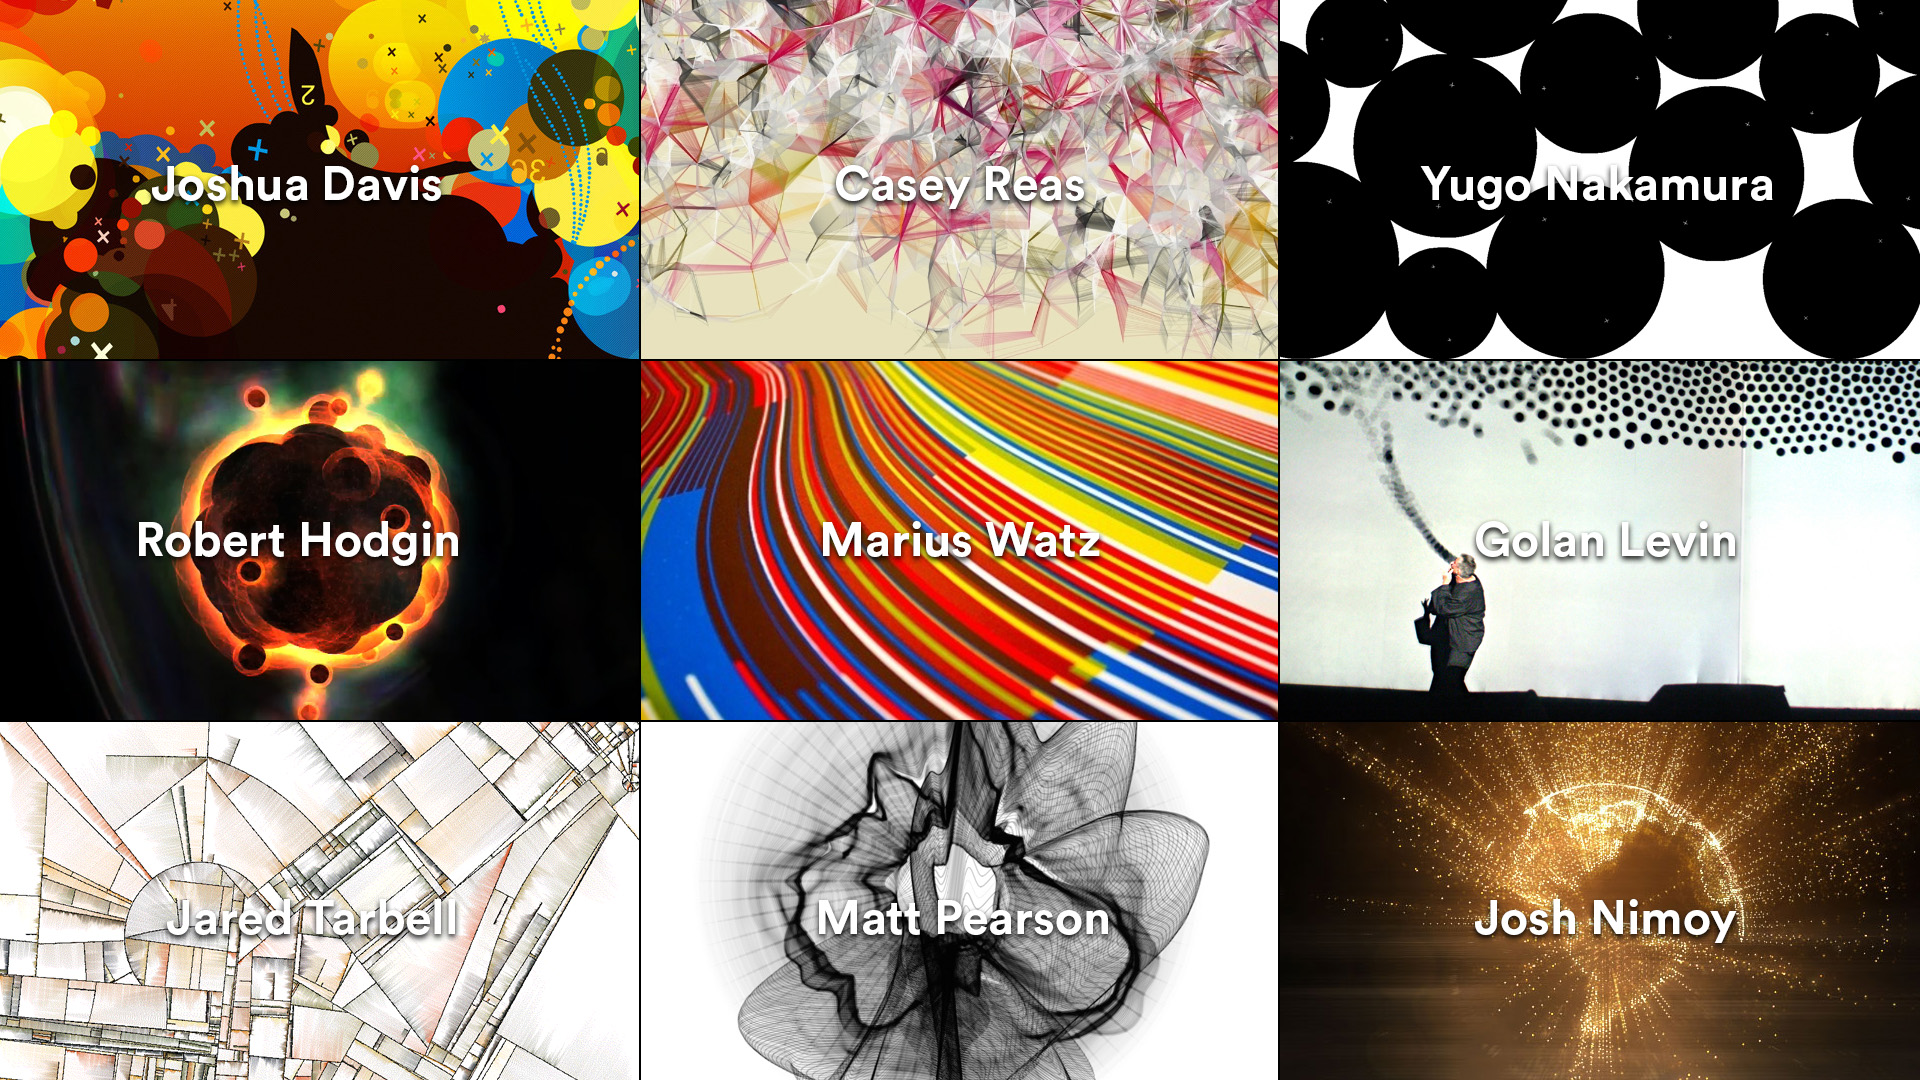
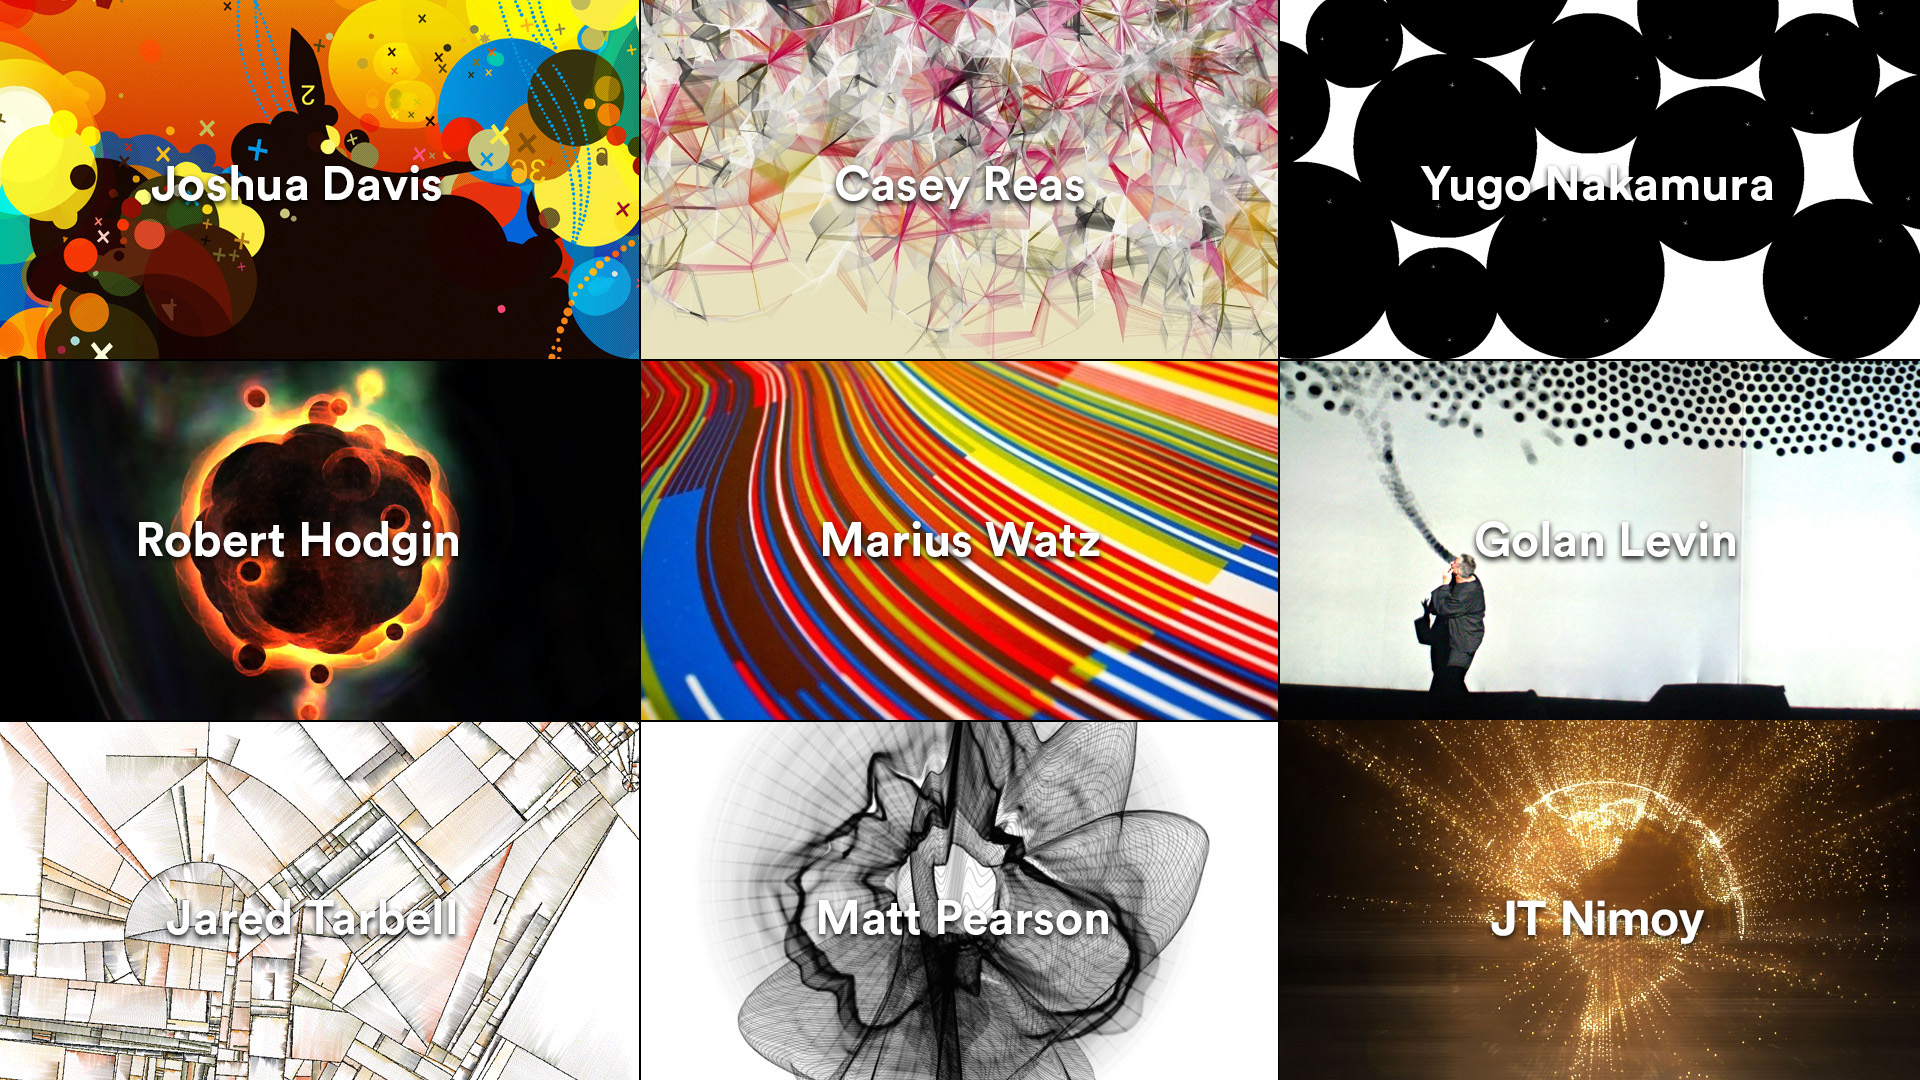
switched josh nimoy to jt nimoy

Changed region(s): [[0.7188, 0.6417, 0.9688, 1.0]]

diff --git a/slides/generative.html b/slides/generative.html
@@ -227,7 +227,7 @@
 
 				<section data-background-video="video/joshnimoy.mp4" style="height: 100%;">
 					<div class="artist">
-						<h2><a href="http://jtnimoy.com/">Josh Nimoy</a></h2>
+						<h2><a href="http://jtnimoy.com/">JT Nimoy</a></h2>
 						<ul>
 							<li>Works heavily with Processing.</li>
 							<li>VFX for films using code.</li>
